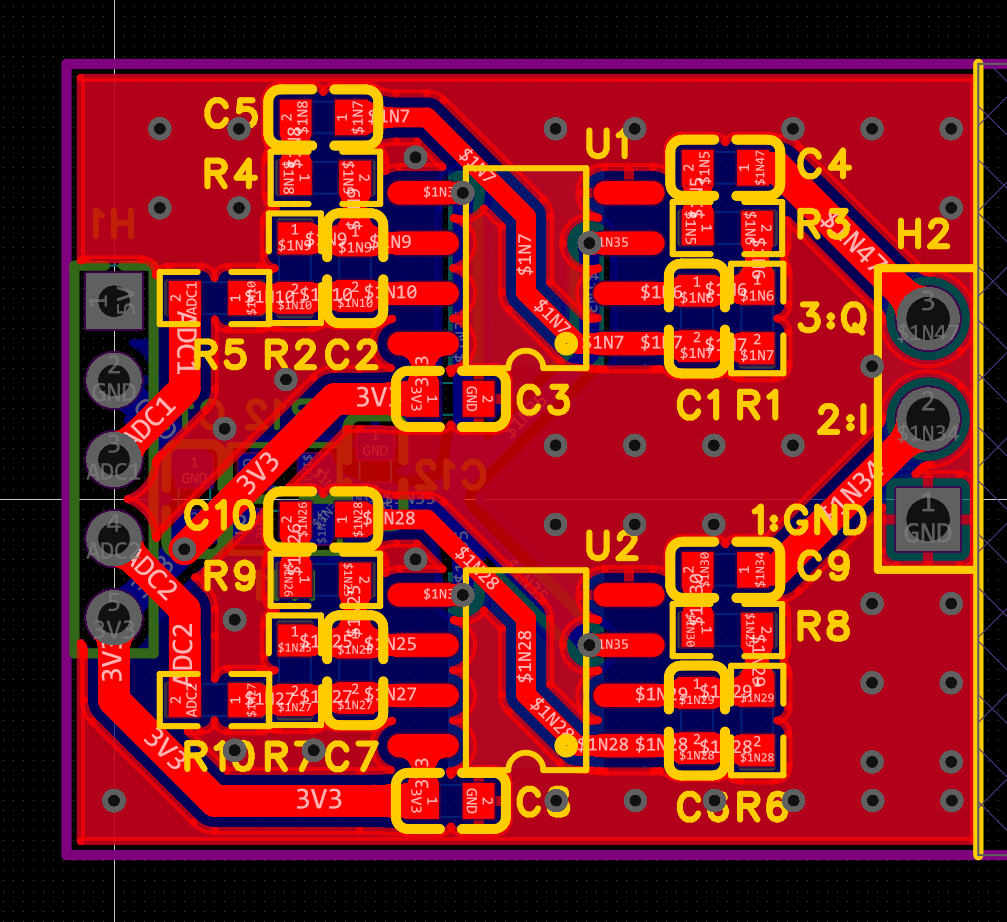
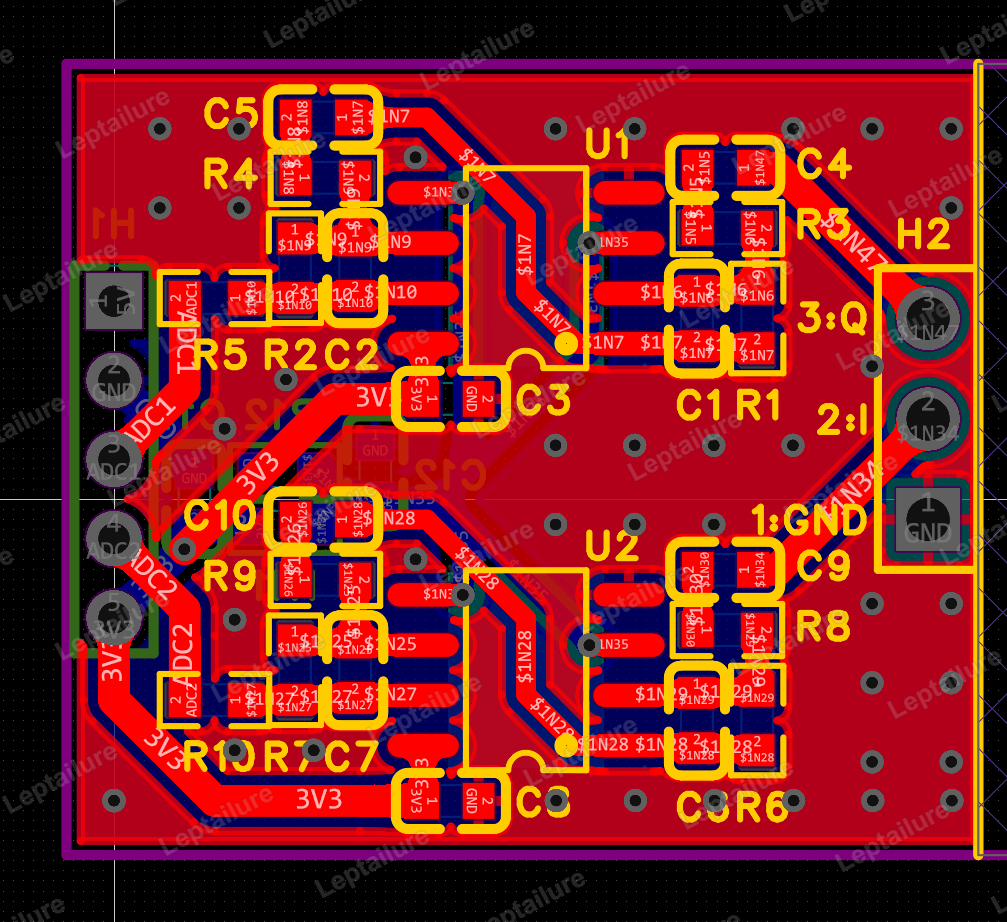
Apply existing Leptailure light watermark to Doppler visuals

diff --git a/projects/doppler.html b/projects/doppler.html
@@ -58,17 +58,17 @@
 
   <section class="project-section" aria-labelledby="schema">
     <div class="radar-section-heading"><div><p class="meta">SCHÉMA DE CONCEPTION</p><h2 id="schema">03 / Schéma électronique</h2></div><span class="radar-media-label">01 / 03</span></div>
-    <figure class="radar-figure radar-light"><a href="doppler-media/schema.png?v=20261119-corrected" target="_blank" rel="noopener" title="Ouvrir le schéma en pleine résolution"><img src="doppler-media/schema.png?v=20261119-corrected" alt="Schéma électronique des deux voies I et Q avec quatre amplificateurs OPA2365, circuits RC et sorties ADC" width="1959" height="1232" loading="lazy"></a><figcaption>Chaînes analogiques I et Q, découplage, polarisation et connecteurs. Cliquer pour agrandir.</figcaption></figure>
+    <figure class="radar-figure radar-light"><a href="doppler-media/schema.png?v=wm-light-20261119" target="_blank" rel="noopener" title="Ouvrir le schéma en pleine résolution"><img src="doppler-media/schema.png?v=wm-light-20261119" alt="Schéma électronique des deux voies I et Q avec quatre amplificateurs OPA2365, circuits RC et sorties ADC" width="1959" height="1232" loading="lazy"></a><figcaption>Chaînes analogiques I et Q, découplage, polarisation et connecteurs. Cliquer pour agrandir.</figcaption></figure>
   </section>
 
   <section class="project-section" aria-labelledby="pcb">
     <div class="radar-section-heading"><div><p class="meta">IMPLANTATION ET ROUTAGE</p><h2 id="pcb">04 / Circuit imprimé</h2></div><span class="radar-media-label">02 / 03</span></div>
-    <figure class="radar-figure radar-dark"><a href="doppler-media/pcb.png?v=20261119-corrected" target="_blank" rel="noopener" title="Ouvrir le routage en pleine résolution"><img src="doppler-media/pcb.png?v=20261119-corrected" alt="Vue de l’implantation des composants, des pistes et des plans de cuivre du circuit imprimé de conditionnement I/Q" width="1007" height="922" loading="lazy"></a><figcaption>Deux groupes d’amplification disposés symétriquement et signaux routés vers les connecteurs.</figcaption></figure>
+    <figure class="radar-figure radar-dark"><a href="doppler-media/pcb.png?v=wm-light-20261119" target="_blank" rel="noopener" title="Ouvrir le routage en pleine résolution"><img src="doppler-media/pcb.png?v=wm-light-20261119" alt="Vue de l’implantation des composants, des pistes et des plans de cuivre du circuit imprimé de conditionnement I/Q" width="1007" height="922" loading="lazy"></a><figcaption>Deux groupes d’amplification disposés symétriquement et signaux routés vers les connecteurs.</figcaption></figure>
   </section>
 
   <section class="project-section" aria-labelledby="rendu">
     <div class="radar-section-heading"><div><p class="meta">VISUALISATION 3D</p><h2 id="rendu">05 / Rendu de la carte</h2></div><span class="radar-media-label">03 / 03</span></div>
-    <figure class="radar-figure radar-dark"><a href="doppler-media/rendu-3d.png?v=20261119-corrected" target="_blank" rel="noopener" title="Ouvrir le rendu en pleine résolution"><img src="doppler-media/rendu-3d.png?v=20261119-corrected" alt="Rendu 3D du circuit imprimé avec amplificateurs opérationnels, composants passifs et connecteurs" width="2132" height="1126" loading="lazy"></a><figcaption>Rendu 3D fourni : les deux voies analogiques sont visibles à gauche, aux côtés d’autres éléments d’interface.</figcaption></figure>
+    <figure class="radar-figure radar-dark"><a href="doppler-media/rendu-3d.png?v=wm-light-20261119" target="_blank" rel="noopener" title="Ouvrir le rendu en pleine résolution"><img src="doppler-media/rendu-3d.png?v=wm-light-20261119" alt="Rendu 3D du circuit imprimé avec amplificateurs opérationnels, composants passifs et connecteurs" width="2132" height="1126" loading="lazy"></a><figcaption>Rendu 3D fourni : les deux voies analogiques sont visibles à gauche, aux côtés d’autres éléments d’interface.</figcaption></figure>
   </section>
 
   <section class="project-section" aria-labelledby="theorie">

diff --git a/index.html b/index.html
@@ -70,7 +70,7 @@
         <div><h3>Interface pour radar Doppler</h3><p class="subtitle">Électronique analogique · Acquisition · PCB</p></div>
         <p>Conception d’une carte de conditionnement analogique I/Q pour un radar Doppler : amplification sur deux voies, référence à mi-alimentation et sorties pour conversion analogique-numérique.</p>
       </div>
-      <figure class="feature-photo"><a href="projects/doppler.html" aria-label="Voir la carte Doppler en 3D"><img src="projects/doppler-media/rendu-3d.png?v=20261119-corrected" alt="Rendu 3D de la carte radar Doppler avec voies analogiques I/Q, connecteurs et composants discrets" width="2132" height="1126" loading="lazy"></a><figcaption>Rendu 3D de la carte de conditionnement radar</figcaption></figure>
+      <figure class="feature-photo"><a href="projects/doppler.html" aria-label="Voir la carte Doppler en 3D"><img src="projects/doppler-media/rendu-3d.png?v=wm-light-20261119" alt="Rendu 3D de la carte radar Doppler avec voies analogiques I/Q, connecteurs et composants discrets" width="2132" height="1126" loading="lazy"></a><figcaption>Rendu 3D de la carte de conditionnement radar</figcaption></figure>
       <div class="tags"><span>Radar 24 GHz</span><span>OPA2365</span><span>I/Q</span><span>PCB</span></div>
       <div class="featured-footer"><p>Schéma, routage, rendu 3D et principes de mesure.</p><a class="button project-action" href="projects/doppler.html" aria-label="Voir le projet : Interface pour radar Doppler">Voir le projet</a></div>
     </article>
